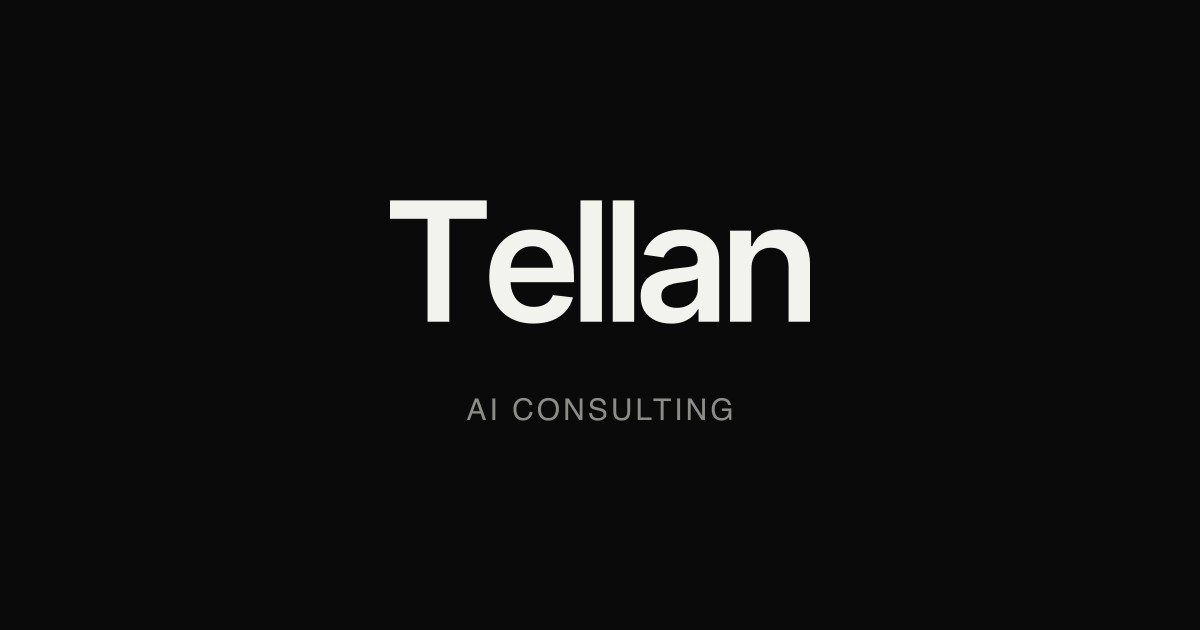
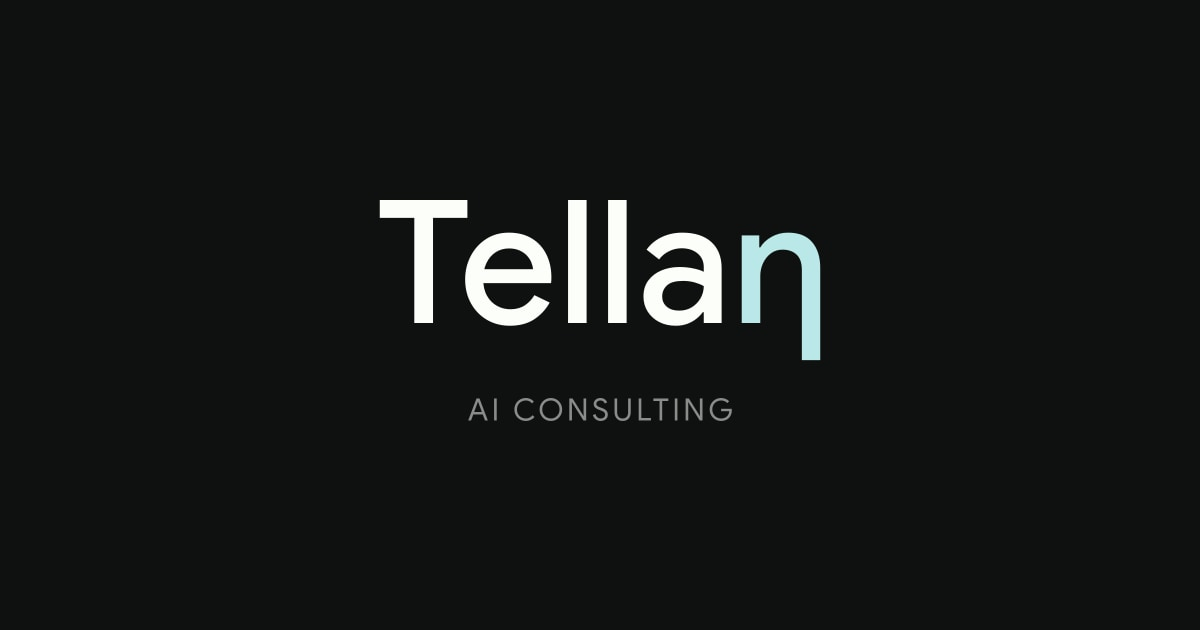
feat: branding first draft

Changed region(s): [[0.3083, 0.3016, 0.7092, 0.573], [0.37, 0.6333, 0.6167, 0.6635]]

diff --git a/src/styles/global.css b/src/styles/global.css
@@ -2,16 +2,24 @@
 :root {
   color-scheme: dark;
 
-  /* Palette — use only these. Contrast vs --black: ash 5.87, ash-light 11.92, white 17.65. */
-  --black: #0a0a0a;
-  --charcoal: #1a1a1a;
-  --ash-dark: #3a3a3a;
-  --ash: #8c8c88;
-  --ash-light: #c9c9c5;
-  --white: #f2f2ef;
+  /* Brand palette. */
+  --onyx: #0f1111;          /* Onyx: background */
+  --carbon: #161918;        /* Carbon Black: raised surfaces (input fields) */
+  --porcelain: #fbfef9;     /* Porcelain: headings, links, controls */
+  --frozen-water: #bae8e8;  /* Frozen Water: accent */
 
-  --font-sans: system-ui, -apple-system, 'Segoe UI', Roboto, 'Helvetica Neue', Arial,
-    'Noto Sans', sans-serif;
+  /* Neutrals: Porcelain mixed into Onyx at the given %, so every gray stays on-brand.
+     Contrast vs --onyx: ash 5.59, ash-light 12.05, porcelain 18.62. */
+  --ash-dark: #393c3b; /* 18%: borders and rules */
+  --ash: #8a8c8a; /* 52%: secondary text */
+  --ash-light: #cccfcb; /* 80%: body text */
+
+  /* Brand type (loaded in `fonts`, astro.config.mjs; only these weights exist):
+     logo: Google Sans Medium 500, outlined in logo.svg
+     titles: Google Sans Medium 500
+     text: Inter Regular 400 */
+  --font-display: var(--font-google-sans);
+  --font-sans: var(--font-inter);
 
   --step--1: 0.875rem;
   --step-0: 1.0625rem; /* 17px body */
@@ -49,7 +57,7 @@ body {
   min-height: 100dvh;
   display: flex;
   flex-direction: column;
-  background: var(--black);
+  background: var(--onyx);
   color: var(--ash-light);
   font-family: var(--font-sans);
   font-size: var(--step-0);
@@ -75,7 +83,8 @@ textarea {
 /* ---------- Typography ---------- */
 h1 {
   max-width: 18ch;
-  color: var(--white);
+  color: var(--porcelain);
+  font-family: var(--font-display);
   font-size: var(--step-1);
   font-weight: 500;
   line-height: 1.05;
@@ -89,7 +98,7 @@ p {
 }
 
 a {
-  color: var(--white);
+  color: var(--porcelain);
   text-decoration: underline;
   text-decoration-thickness: 1px;
   text-underline-offset: 0.25em;
@@ -97,7 +106,7 @@ a {
 
 /* ---------- Accessibility ---------- */
 :focus-visible {
-  outline: 1px solid var(--white);
+  outline: 1px solid var(--porcelain);
   outline-offset: 4px;
 }
 
@@ -107,8 +116,8 @@ a {
   left: var(--space-1);
   z-index: 100;
   padding: var(--space-1) var(--space-2);
-  background: var(--white);
-  color: var(--black);
+  background: var(--porcelain);
+  color: var(--onyx);
   transform: translateY(-200%);
 }
 
@@ -134,10 +143,10 @@ a {
 .button {
   justify-self: start;
   padding: 0.75em 1.5em;
-  border: 1px solid var(--white);
+  border: 1px solid var(--porcelain);
   border-radius: 0;
   background: transparent;
-  color: var(--white);
+  color: var(--porcelain);
   font-size: var(--step--1);
   line-height: 1.2;
   text-decoration: none;
@@ -145,8 +154,8 @@ a {
 }
 
 .button:hover {
-  background: var(--white);
-  color: var(--black);
+  background: var(--porcelain);
+  color: var(--onyx);
 }
 
 .field {
@@ -163,7 +172,7 @@ a {
 .field textarea {
   width: 100%;
   padding: 0.75em 0.9em;
-  background: var(--charcoal);
+  background: var(--carbon);
   border: 1px solid var(--ash-dark);
   border-radius: 0;
   color: var(--ash-light);
